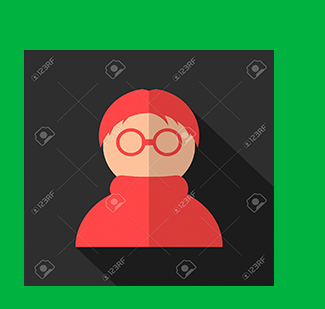
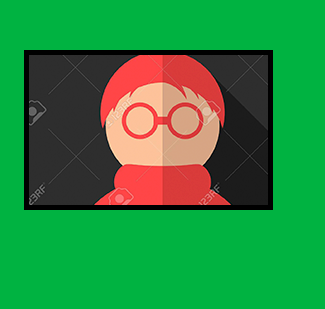
first commit

diff --git a/app/js/index.js b/app/js/index.js
@@ -116,17 +116,17 @@ VideoPlayer.prototype.init = function() {
   //To disable all seeking replace the if statements from the next
   //two functions with myPlayer.currentTime(currentTime);
 
-  // self.myPlayer.on('seeking', function(event) {
-  //   if (currentTime < self.myPlayer.currentTime()) {
-  //     self.myPlayer.currentTime(currentTime);
-  //   }
-  // });
-  //
-  // self.myPlayer.on('seeked', function(event) {
-  //   if (currentTime < self.myPlayer.currentTime()) {
-  //     self.myPlayer.currentTime(currentTime);
-  //   }
-  // });
+  self.myPlayer.on('seeking', function(event) {
+    if (currentTime < self.myPlayer.currentTime()) {
+      self.myPlayer.currentTime(currentTime);
+    }
+  });
+
+  self.myPlayer.on('seeked', function(event) {
+    if (currentTime < self.myPlayer.currentTime()) {
+      self.myPlayer.currentTime(currentTime);
+    }
+  });
   self.myPlayer.on('ended', function() {
     self.myPlayer.posterImage.show();
     $(this.posterImage.contentEl()).show();

diff --git a/index.html b/index.html
@@ -17,10 +17,8 @@
 
 <div id="videoPlayerWrapper" class="b-video-player-wrapper">
 	<div id="textAnimationBlock" class="b-text-animation">
-		<div class="charlie" data-animations="animate-start, animate-finish" data-times="0,3" id="animate1-img1">
-			<!--<div id="animate1-img2"></div>-->
-		</div>
-		<!--<div class="charlie" data-animations="animate-start, animate-finish" data-times="1,3" id="animate1-img2"></div>-->
+		<div class="charlie" data-animations="animate-start, animate-finish" data-times="0,3" id="animate1-img1"></div>
+		<div class="charlie" data-animations="animate-start, animate-finish" data-times="0,3" id="animate1-img2"></div>
 		<div class="charlie" data-animations="animate-start" data-times="30" id="animate2"></div>
 		<div class="charlie" data-animations="animate-start" data-times="31" id="animate3"></div>
 	</div>

diff --git a/app/sass/main.scss b/app/sass/main.scss
@@ -176,15 +176,22 @@ h1 {
   position: absolute;
   top: 0;
   left: 0;
-  width: 40%;
+  width: 40.5%;
   height: 100%;
+  z-index: 102;
 }
 #animate1-img2{
   position: absolute;
-  top: 28.5%;
-  left: 10%;
-  width: 72%;
-  height: 32.5%;
+
+  top: 0;
+  left: 0;
+  width: 40%;
+  height: 100%;
+  z-index: 100;
+  //top: 28.5%;
+  //left: 10%;
+  //width: 72%;
+  //height: 32.5%;
 }
 .vjs-fullscreen #animate1{
   font-size: 4.3vw;

diff --git a/app/css/main.css b/app/css/main.css
@@ -150,15 +150,17 @@ h1 {
   position: absolute;
   top: 0;
   left: 0;
-  width: 40%;
-  height: 100%; }
+  width: 40.5%;
+  height: 100%;
+  z-index: 102; }
 
 #animate1-img2 {
   position: absolute;
-  top: 28.5%;
-  left: 10%;
-  width: 72%;
-  height: 32.5%; }
+  top: 0;
+  left: 0;
+  width: 40%;
+  height: 100%;
+  z-index: 100; }
 
 .vjs-fullscreen #animate1 {
   font-size: 4.3vw; }
